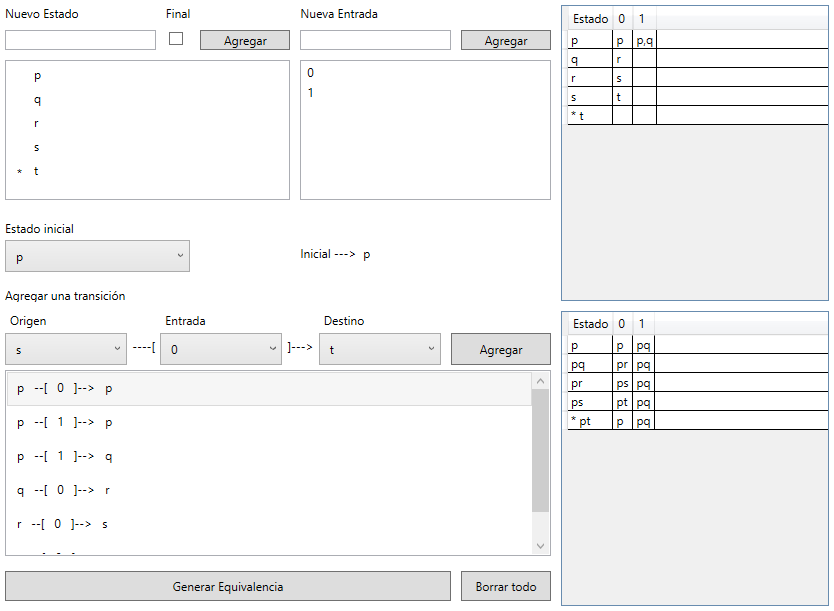
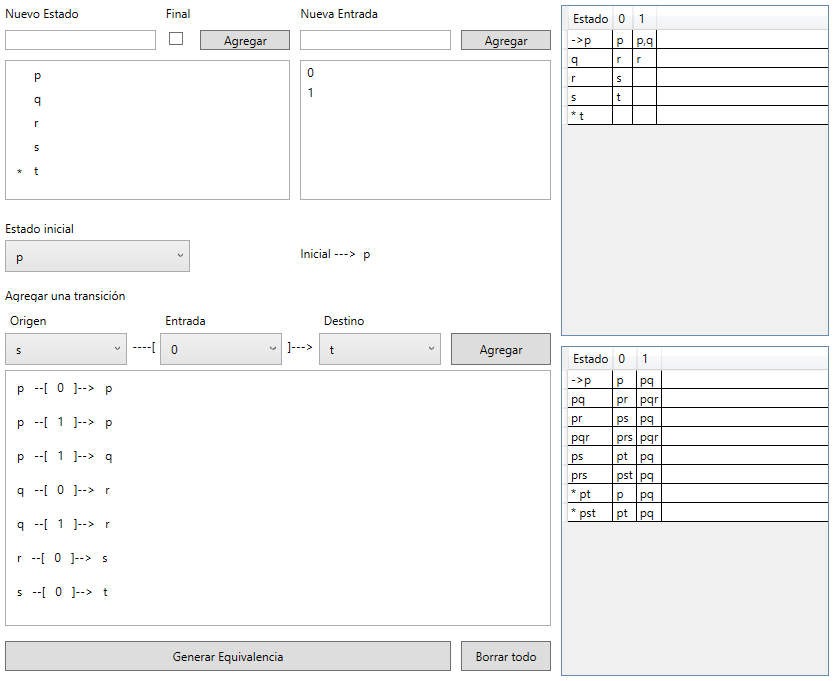
Agregado identificador de estado inicial a resultados

diff --git a/Procesos/GeneradorTabla.cs b/Procesos/GeneradorTabla.cs
@@ -14,7 +14,7 @@ namespace AutomataTransicion
             DataColumn column;
             DataRow row;
 
-            column = new DataColumn("Estado", typeof(Estado));
+            column = new DataColumn("Estado", typeof(string));
             column.Unique = true;
             data.Columns.Add(column);
 
@@ -27,7 +27,8 @@ namespace AutomataTransicion
             foreach (var estado in automata.Estados)
             {
                 row = data.NewRow();
-                row["Estado"] = estado;
+                var strInicial = estado == automata.EstadoInicial ? "->" : string.Empty;
+                row["Estado"] = strInicial + estado.ToString();
 
                 var transiciones = automata.Transiciones.Where(x => x.Origen == estado);
                 var transicionesDict = new Dictionary<string, string>();
